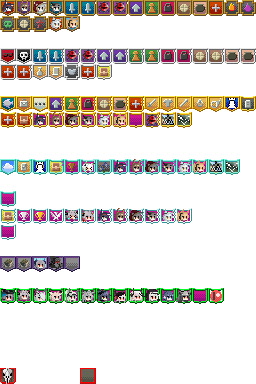
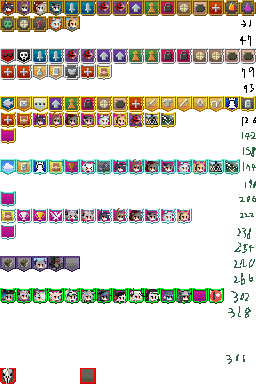
뱃지 외

diff --git a/Arrrknights/core/src/main/java/com/shatteredpixel/shatteredpixeldungeon/Badges.java b/Arrrknights/core/src/main/java/com/shatteredpixel/shatteredpixeldungeon/Badges.java
@@ -85,58 +85,58 @@ public class Badges {
 		DEATH_FROM_FALLING          ( 18 ),
 
 		//silver
-		NO_MONSTERS_SLAIN           ( 32 ),
-		GRIM_WEAPON                 ( 33 ),
-		MONSTERS_SLAIN_3            ( 34 ),
-		MONSTERS_SLAIN_4            ( 35 ),
-		GOLD_COLLECTED_3            ( 36 ),
-		GOLD_COLLECTED_4            ( 37 ),
-		ITEM_LEVEL_2                ( 38 ),
-		ITEM_LEVEL_3                ( 39 ),
-		LEVEL_REACHED_2             ( 40 ),
-		LEVEL_REACHED_3             ( 41 ),
-		STRENGTH_ATTAINED_2         ( 42 ),
-		STRENGTH_ATTAINED_3         ( 43 ),
-		FOOD_EATEN_2                ( 44 ),
-		FOOD_EATEN_3                ( 45 ),
-		POTIONS_COOKED_2            ( 46 ),
-		POTIONS_COOKED_3            ( 47 ),
-		BOSS_SLAIN_2                ( 48 ),
-		BOSS_SLAIN_3                ( 49 ),
-		ALL_POTIONS_IDENTIFIED      ( 50 ),
-		ALL_SCROLLS_IDENTIFIED      ( 51 ),
-		DEATH_FROM_GLYPH            ( 52 ),
+		NO_MONSTERS_SLAIN           ( 48 ),
+		GRIM_WEAPON                 ( 49 ),
+		MONSTERS_SLAIN_3            ( 50 ),
+		MONSTERS_SLAIN_4            ( 51 ),
+		GOLD_COLLECTED_3            ( 52 ),
+		GOLD_COLLECTED_4            ( 53 ),
+		ITEM_LEVEL_2                ( 54 ),
+		ITEM_LEVEL_3                ( 55 ),
+		LEVEL_REACHED_2             ( 56 ),
+		LEVEL_REACHED_3             ( 57 ),
+		STRENGTH_ATTAINED_2         ( 58 ),
+		STRENGTH_ATTAINED_3         ( 59 ),
+		FOOD_EATEN_2                ( 60 ),
+		FOOD_EATEN_3                ( 61 ),
+		POTIONS_COOKED_2            ( 62 ),
+		POTIONS_COOKED_3            ( 63 ),
+		BOSS_SLAIN_2                ( 64 ),
+		BOSS_SLAIN_3                ( 65 ),
+		ALL_POTIONS_IDENTIFIED      ( 66 ),
+		ALL_SCROLLS_IDENTIFIED      ( 67 ),
+		DEATH_FROM_GLYPH            ( 68 ),
 		BOSS_SLAIN_1_WARRIOR,
 		BOSS_SLAIN_1_MAGE,
 		BOSS_SLAIN_1_ROGUE,
 		BOSS_SLAIN_1_HUNTRESS,
 		BOSS_SLAIN_1_ROSECAT,
 		BOSS_SLAIN_1_NEARL,
-		BOSS_SLAIN_1_ALL_CLASSES    ( 52, true ),
-		GAMES_PLAYED_1              ( 53, true ),
+		BOSS_SLAIN_1_ALL_CLASSES    ( 69, true ),
+		GAMES_PLAYED_1              ( 70, true ),
 
 		//gold
-		PIRANHAS                    ( 64 ),
+		PIRANHAS                    ( 96 ),
 		//these names are a bit outdated, but it doesn't really matter.
 		BAG_BOUGHT_SEED_POUCH,
 		BAG_BOUGHT_SCROLL_HOLDER,
 		BAG_BOUGHT_POTION_BANDOLIER,
 		BAG_BOUGHT_WAND_HOLSTER,
-		ALL_BAGS_BOUGHT             ( 65 ),
-		MASTERY_COMBO               ( 66 ),
-		ITEM_LEVEL_4                ( 67 ),
-		LEVEL_REACHED_4             ( 68 ),
-		STRENGTH_ATTAINED_4         ( 69 ),
-		FOOD_EATEN_4                ( 70 ),
-		POTIONS_COOKED_4            ( 71 ),
-		BOSS_SLAIN_4                ( 72 ),
-		ALL_WEAPONS_IDENTIFIED      ( 73 ),
-		ALL_SKILLBOOK_IDENTIFIED        ( 74 ),
-		ALL_WANDS_IDENTIFIED        ( 75 ),
-		ALL_RINGS_IDENTIFIED        ( 76 ),
-		ALL_ARTIFACTS_IDENTIFIED    ( 77 ),
-		VICTORY                     ( 78 ),
-		YASD                        ( 79, true ),
+		ALL_BAGS_BOUGHT             ( 97 ),
+		MASTERY_COMBO               ( 98 ),
+		ITEM_LEVEL_4                ( 99 ),
+		LEVEL_REACHED_4             ( 100 ),
+		STRENGTH_ATTAINED_4         ( 101 ),
+		FOOD_EATEN_4                ( 102 ),
+		POTIONS_COOKED_4            ( 103 ),
+		BOSS_SLAIN_4                ( 104 ),
+		ALL_WEAPONS_IDENTIFIED      ( 105 ),
+		ALL_SKILLBOOK_IDENTIFIED        ( 106 ),
+		ALL_WANDS_IDENTIFIED        ( 107 ),
+		ALL_RINGS_IDENTIFIED        ( 108 ),
+		ALL_ARTIFACTS_IDENTIFIED    ( 109 ),
+		VICTORY                     ( 110 ),
+		YASD                        ( 111, true ),
 		BOSS_SLAIN_3_GLADIATOR,
 		BOSS_SLAIN_3_BERSERKER,
 		BOSS_SLAIN_3_WARLOCK,
@@ -150,84 +150,84 @@ public class Badges {
 		BOSS_SLAIN_3_WAR,
 		BOSS_SLAIN_3_KNIGHT,
 		BOSS_SLAIN_3_SAVIOR,
-		BOSS_SLAIN_3_ALL_SUBCLASSES ( 80, true ),
-		GAMES_PLAYED_2              ( 81, true ),
+		BOSS_SLAIN_3_ALL_SUBCLASSES ( 112, true ),
+		GAMES_PLAYED_2              ( 113, true ),
 
-		BLAZE_CHAMPION1              ( 82, true ),
-		AMIYA_CHAMPION1              ( 83, true ),
-		RED_CHAMPION1              ( 84, true ),
-		GREY_CHAMPION1              ( 85, true ),
-		ROSE_CHAMPION1              ( 86, true ),
-		NEARL_CHAMPION1              ( 87, true ),
+		BLAZE_CHAMPION1              ( 114, true ),
+		AMIYA_CHAMPION1              ( 115, true ),
+		RED_CHAMPION1              ( 116, true ),
+		GREY_CHAMPION1              ( 117, true ),
+		ROSE_CHAMPION1              ( 118, true ),
+		NEARL_CHAMPION1              ( 119, true ),
 
-		GOLD_COLLECTED_5              ( 89 ),
+		GOLD_COLLECTED_5              ( 120 ),
 
-		SIESTA_PART1              ( 90 ),
-		GAVIAL_PART1              ( 90 ),
+		SIESTA_PART1              ( 121 ),
+		GAVIAL_PART1              ( 122 ),
 
 		//RED , 버그 유저
-		BUG (176),
+		BUG (368),
 
 		//platinum
-		HAPPY_END                   ( 96 ),
-		ALL_ITEMS_IDENTIFIED        ( 97, true ),
+		HAPPY_END                   ( 160 ),
+		ALL_ITEMS_IDENTIFIED        ( 161, true ),
 		VICTORY_WARRIOR,
 		VICTORY_MAGE,
 		VICTORY_ROGUE,
 		VICTORY_HUNTRESS,
 		VICTORY_ROSECAT,
 		VICTORY_NEARL,
-		VICTORY_ALL_CLASSES         ( 98, true ),
-		GAMES_PLAYED_3              ( 99, true ),
-		CHAMPION_1                  ( 100 ),
-		FRAGGING                       ( 101 ),
-		PRAY (102),
+		VICTORY_ALL_CLASSES         ( 162, true ),
+		GAMES_PLAYED_3              ( 163, true ),
+		CHAMPION_1                  ( 164 ),
+		FRAGGING                       ( 165 ),
+		PRAY (166),
 
-		BLAZE_CHAMPION2              ( 104, true ),
-		AMIYA_CHAMPION2              ( 105, true ),
-		RED_CHAMPION2              ( 106, true ),
-		GREY_CHAMPION2              ( 107, true ),
-		ROSE_CHAMPION2              ( 108, true ),
-		NEARL_CHAMPION2              ( 109, true ),
+		BLAZE_CHAMPION2              ( 167, true ),
+		AMIYA_CHAMPION2              ( 168, true ),
+		RED_CHAMPION2              ( 169, true ),
+		GREY_CHAMPION2              ( 170, true ),
+		ROSE_CHAMPION2              ( 171, true ),
+		NEARL_CHAMPION2              ( 172, true ),
 
-		SIESTA_PART2              ( 111),
-		GAVIAL_PART2              ( 111 ),
+		SIESTA_PART2              ( 173),
+		GAVIAL_PART2              ( 174 ),
 
 		//diamond
-		GAMES_PLAYED_4              ( 112, true ),
-		CHAMPION_2                  ( 113 ),
-		CHAMPION_3                  ( 114 ),
-		CHAMPION_4                  ( 114 ),
-		ROARINGFLARE                  ( 115 ),
-		EVILTIME_END                  ( 116 ),
-		WILL    ( 117 ),
+		GAMES_PLAYED_4              ( 208, true ),
+		CHAMPION_2                  ( 209 ),
+		CHAMPION_3                  ( 210 ),
+		CHAMPION_4                  ( 211 ),
+		ROARINGFLARE                  ( 212 ),
+		EVILTIME_END                  ( 213 ),
+		WILL    ( 214 ),
 
-		BLAZE_CHAMPION3              ( 120, true ),
-		AMIYA_CHAMPION3              ( 121, true ),
-		RED_CHAMPION3             ( 122, true ),
-		GREY_CHAMPION3              ( 123, true ),
-		ROSE_CHAMPION3              ( 124, true ),
-		NEARL_CHAMPION3              ( 125, true ),
+		BLAZE_CHAMPION3              ( 215, true ),
+		AMIYA_CHAMPION3              ( 216, true ),
+		RED_CHAMPION3             ( 217, true ),
+		GREY_CHAMPION3              ( 218, true ),
+		ROSE_CHAMPION3              ( 219, true ),
+		NEARL_CHAMPION3              ( 220, true ),
 
 		//Puple
-		Get_25_STONES                (136),
-		Get_40_STONES                (137),
-		DOLL_COLLECTOR                (138),
-		SLAIN_PURSUER				(139),
+		Get_25_STONES                (256),
+		Get_40_STONES                (257),
+		DOLL_COLLECTOR                (258),
+		SLAIN_PURSUER				(259),
 
 		//GREEN
-		SKIN_BABOSKADI(160, false, true),
-		SKIN_TALU(161, false, true),
-		SKIN_NOVA(162, false, true),
-		SKIN_SUSUU(163, false, true),
-		SKIN_GRN(164, false, true),
-		SKIN_LAPPY(165,false,true),
-		SKIN_JESSI(166, false, true),
-		SKIN_LEAF(167, false, true),
-		SKIN_MUDROCK(168, false, true),
-		SKIN_ASTESIA(170, false, true),
-		SKIN_SPECTER(169, false, true),
-		SKIN_SCHWARZ(171, false, true),
+		SKIN_BABOSKADI(288, false, true),
+		SKIN_TALU(289, false, true),
+		SKIN_NOVA(290, false, true),
+		SKIN_SUSUU(291, false, true),
+		SKIN_GRN(292, false, true),
+		SKIN_LAPPY(293,false,true),
+		SKIN_JESSI(294, false, true),
+		SKIN_LEAF(295, false, true),
+		SKIN_MUDROCK(296, false, true),
+		SKIN_ASTESIA(297, false, true),
+		SKIN_SPECTER(298, false, true),
+		SKIN_SCHWARZ(299, false, true),
 
 		//기타
 		SUPPORT;

diff --git a/Arrrknights/core/src/main/java/com/shatteredpixel/shatteredpixeldungeon/sprites/ItemSpriteSheet.java b/Arrrknights/core/src/main/java/com/shatteredpixel/shatteredpixeldungeon/sprites/ItemSpriteSheet.java
@@ -851,6 +851,8 @@ public class ItemSpriteSheet {
 	public static final int KETTLE   = QUEST+18;
 	public static final int CAT   = QUEST+19;
 	public static final int WALKIE   = QUEST+20;
+	public static final int MUSH   = QUEST+21;
+	public static final int BARRI   = QUEST+22;
 	static{
 		assignItemRect(SKULL,   16, 16);
 		assignItemRect(DUST,    16, 16);
@@ -873,6 +875,8 @@ public class ItemSpriteSheet {
 		assignItemRect(KETTLE,    16, 16);
 		assignItemRect(CAT,    16, 16);
 		assignItemRect(WALKIE,    16, 16);
+		assignItemRect(MUSH,    16, 16);
+		assignItemRect(BARRI,    16, 16);
 	}
 
 	private static final int BAGS       =                                   xy(1, 31);  //16 slots

diff --git a/Arrrknights/core/src/main/java/com/shatteredpixel/shatteredpixeldungeon/items/Mushroomslices.java b/Arrrknights/core/src/main/java/com/shatteredpixel/shatteredpixeldungeon/items/Mushroomslices.java
@@ -4,7 +4,7 @@ import com.shatteredpixel.shatteredpixeldungeon.sprites.ItemSpriteSheet;
 
 public class Mushroomslices extends Item {
     {
-        image = ItemSpriteSheet.CAT;
+        image = ItemSpriteSheet.MUSH;
 
         stackable = true;
         bones = false;

diff --git a/Arrrknights/core/src/main/java/com/shatteredpixel/shatteredpixeldungeon/items/PortableCover.java b/Arrrknights/core/src/main/java/com/shatteredpixel/shatteredpixeldungeon/items/PortableCover.java
@@ -13,7 +13,7 @@ import java.util.ArrayList;
 public class PortableCover extends Item {
     private static String AC_USE = "USE";
     {
-        image = ItemSpriteSheet.BONK;
+        image = ItemSpriteSheet.BARRI;
         stackable = true;
     }
 
